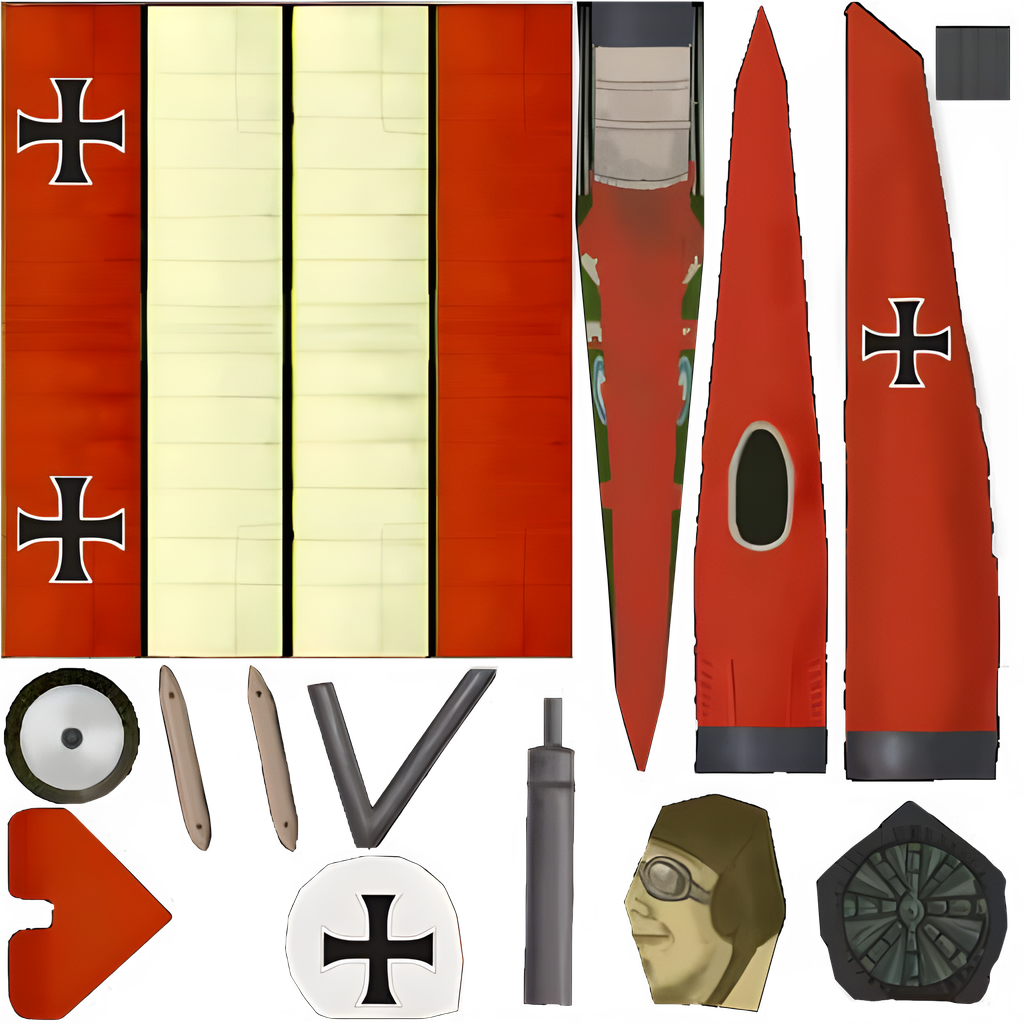
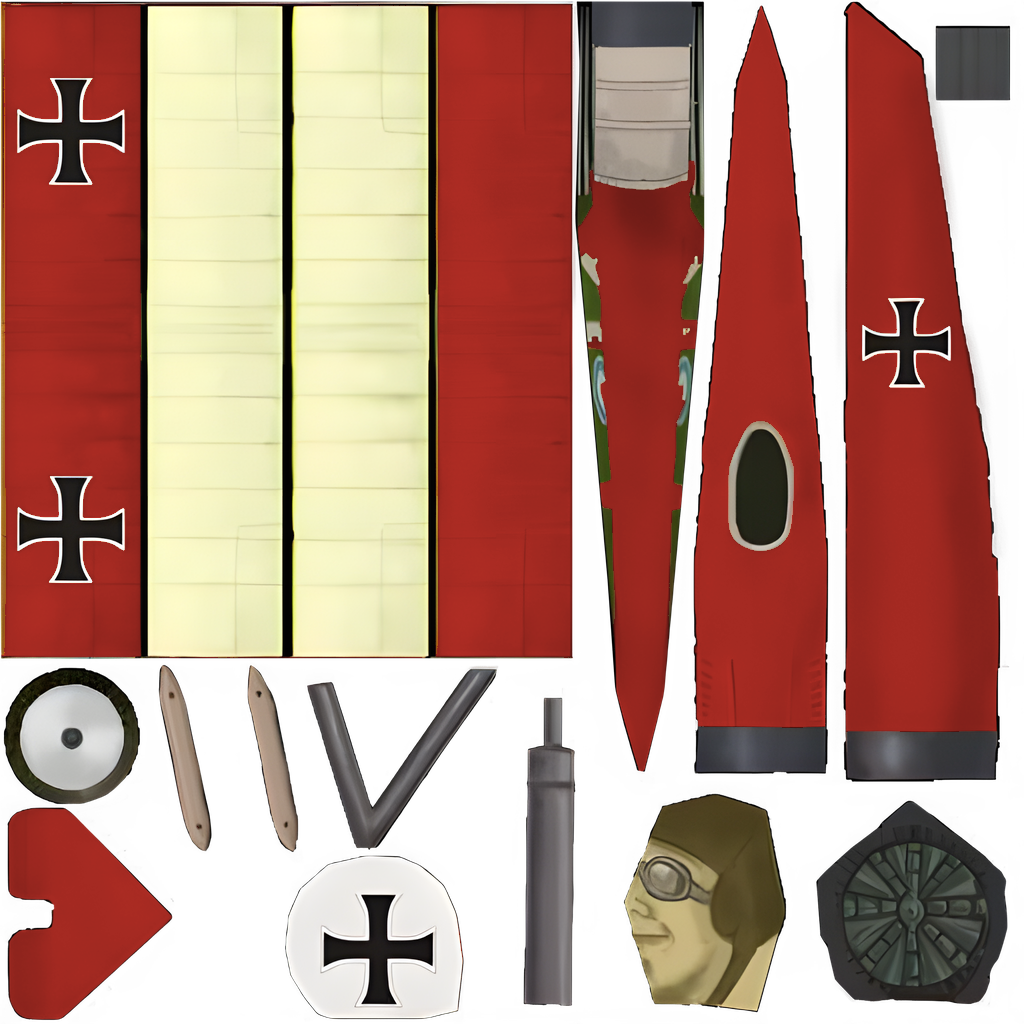
tune(redbaron): dull red and camouflaged Albatros wings from a reference; Brenner takes off after the Baron in Scramble

diff --git a/redace/mods/redbaron/tools/paint_planes.py b/redace/mods/redbaron/tools/paint_planes.py
@@ -5,8 +5,8 @@ Writes overrides/redbaron/objects/planes/<folder>/<folder>.png, which build_plan
 folder's model and points the model's atlas at. Regions are pixel boxes in the 1024 x 1024 upscaled
 atlases (game_data/objects/planes/textures/*_a.png):
 
-  albatrostemp1_a: wing upper surfaces x 0..140 / 430..575, y 0..655 (green; painted red too, at the
-                   user's request: the design allowed camouflage), fuselage sides x 620..770 / 780..920,
+  albatrostemp1_a: wing upper surfaces x 0..140 / 430..575, y 0..655 (stock plain green; painted in green
+                   and brown camouflage patches, as the Baron's Albatros D.II and D.III), fuselage sides x 620..770 / 780..920,
                    y 0..790 (tail at the top, metal nose at the bottom), wheel covers 0..140 x 665..800,
                    fin and rudder 0..150 x 800..990, tailplane 175..470 x 865..1010.
   fokker_a:        already red (the original game's Red Baron); fuselage sides x 700..1000 (tail at the
@@ -25,7 +25,10 @@ GODOT = Path(__file__).resolve().parents[4]
 TEX = GODOT / "redace" / "game_data" / "objects" / "planes" / "textures"
 OUT = GODOT / "overrides" / "redbaron" / "objects" / "planes"
 
-FOKKER_RED = (186, 42, 0)  # the stock Dr.I's red, so the squadron matches
+FOKKER_RED = (186, 42, 0)  # the stock Dr.I's red
+DULL_RED = (165, 42, 34)  # the red the mod paints with: duller than the stock Dr.I (user, from a reference model)
+CAMO_GREEN = (130, 150, 112)  # Albatros wing camouflage: pale green and brown patches (reference model)
+CAMO_BROWN = (110, 84, 72)
 ALBATROS_PAINT = [(620, 0, 770, 790), (780, 0, 920, 790), (0, 665, 140, 800), (0, 800, 150, 990),
                   (175, 865, 470, 1010)]
 ALBATROS_WINGS = [(0, 0, 140, 655), (430, 0, 575, 655)]  # the green upper surfaces; the cream undersides stay
@@ -48,9 +51,44 @@ def recolour(img, boxes, colour, min_sat=0.22):
                 if a < 8 or s < min_sat or v < 0.08:
                     continue
                 # stock paint sits at value ~0.3-0.45; scale so its brighter parts land on the target's value
-                nv = min(1.0, v / 0.45 * tv)
+                nv = tv * min(max(v / 0.45, 0.4), 1.15)  # bright stock orange parts stay as dull as the rest
                 nr, ng, nb = colorsys.hsv_to_rgb(th, ts, nv)
                 px[x, y] = (int(nr * 255), int(ng * 255), int(nb * 255), a)
+
+
+def camouflage(img, boxes, green, brown, min_sat=0.22):
+    """Coloured paint in boxes -> large green and brown patches across the span (the strips run along y),
+    keeping each pixel's shading; crosses and white borders are left alone."""
+    import math
+    px = img.load()
+    hsv = {c: colorsys.rgb_to_hsv(*(v / 255 for v in c)) for c in (green, brown)}
+    for x0, y0, x1, y1 in boxes:
+        for y in range(y0, y1):
+            for x in range(x0, x1):
+                r, g, b, a = px[x, y]
+                h, s, v = colorsys.rgb_to_hsv(r / 255, g / 255, b / 255)
+                if a < 8 or s < min_sat or v < 0.08:
+                    continue
+                n = math.sin(y * 0.011 + 1.4 * math.sin((x - x0) * 0.025)) + 0.55 * math.sin(y * 0.029 + (x - x0) * 0.013 + 2.0)
+                th, ts, tv = hsv[brown if n > 0.35 else green]
+                nr, ng, nb = colorsys.hsv_to_rgb(th, ts, min(1.0, v / 0.45 * tv))
+                px[x, y] = (int(nr * 255), int(ng * 255), int(nb * 255), a)
+
+
+def dull_reds(img, colour, min_sat=0.5):
+    """Every strongly red pixel -> colour at its own brightness (the stock Dr.I's bright red, dulled)."""
+    px = img.load()
+    th, ts, tv = colorsys.rgb_to_hsv(*(c / 255 for c in colour))
+    _, _, sv = colorsys.rgb_to_hsv(*(c / 255 for c in FOKKER_RED))
+    w, h = img.size
+    for y in range(h):
+        for x in range(w):
+            r, g, b, a = px[x, y]
+            hh, s, v = colorsys.rgb_to_hsv(r / 255, g / 255, b / 255)
+            if a < 8 or s < min_sat or not (hh < 0.07 or hh > 0.95):
+                continue
+            nr, ng, nb = colorsys.hsv_to_rgb(th, ts, min(1.0, v / sv * tv))
+            px[x, y] = (int(nr * 255), int(ng * 255), int(nb * 255), a)
 
 
 def white_fields(img, box, colour, min_value=0.72, max_sat=0.18):
@@ -91,14 +129,17 @@ def save(img, folder):
 
 def main():
     albatros = Image.open(TEX / "albatrostemp1_a.png").convert("RGBA")
+    camouflage(albatros, ALBATROS_WINGS, CAMO_GREEN, CAMO_BROWN)
+    save(albatros, "albatros_player")  # factory finish: stock fuselage, camouflaged wings
     red = albatros.copy()
-    recolour(red, ALBATROS_PAINT + ALBATROS_WINGS, FOKKER_RED)
+    recolour(red, ALBATROS_PAINT, DULL_RED)
     save(red, "albatros_red")
     brenner = red.copy()
     band(brenner, ALBATROS_BAND)
     save(brenner, "albatros_brenner")
 
     fokker = Image.open(TEX / "fokker_a.png").convert("RGBA")
+    dull_reds(fokker, DULL_RED)
     save(fokker.copy(), "fokker_red")
     fb = fokker.copy()
     band(fb, FOKKER_BAND)

diff --git a/redace/mods/redbaron/docs/IMPLEMENTATION_NOTES.md b/redace/mods/redbaron/docs/IMPLEMENTATION_NOTES.md
@@ -292,3 +292,14 @@ Per mission (deviations from the design's INI in **bold**):
   flew at the Scout's pace. He now chases a waypoint on the Scout (renewed every step) at full
   throttle with `highspeed = 125` (was 118), and attacks once he is within 300 of it.
   Measured: 125 against the Baron's 111, 400 away 4 s after the break.
+
+## Playtest 11: paint from a reference model; Scramble take-off
+
+- User reference (a model of the Baron's red Albatros D.III): dull red fuselage and tail, wings in pale
+  green and brown camouflage. Paint now: `DULL_RED (165, 42, 34)` on the Albatros fuselage and tail and
+  on every strong red of the Dr.I atlas (fokker_red, Brenner's and the rookies'); Albatros wing upper
+  surfaces in large green (130, 150, 112) / brown (110, 84, 72) patches across the span (the red wings
+  of playtest 10 are gone); `albatros_player` (mission 1) gets the same camouflaged wings with its stock
+  fuselage. Bright stock oranges are held to the same dull level.
+- Scramble: Brenner parked on the runway 60 behind the Baron with no goals; `missions/m04.gd` (extends
+  objective.gd) sends him off (take off, then the raiders) once the Baron is 15 above the ground.
